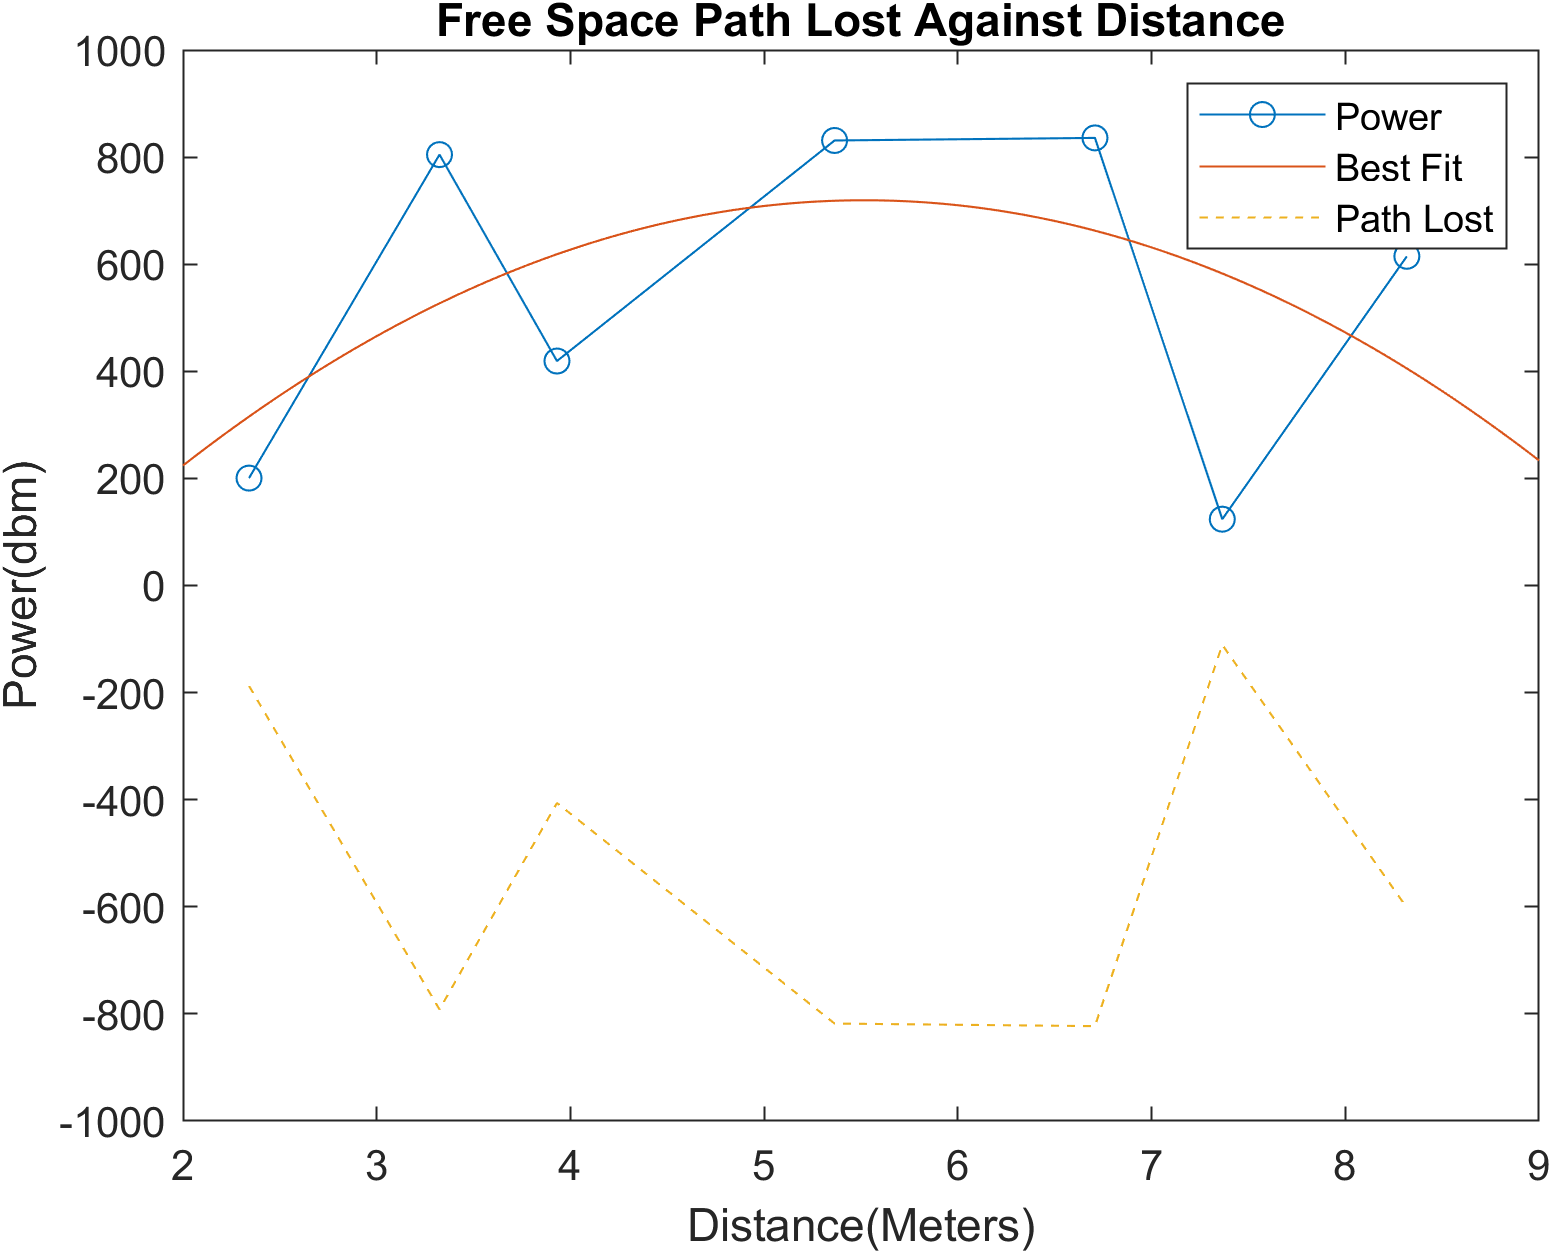
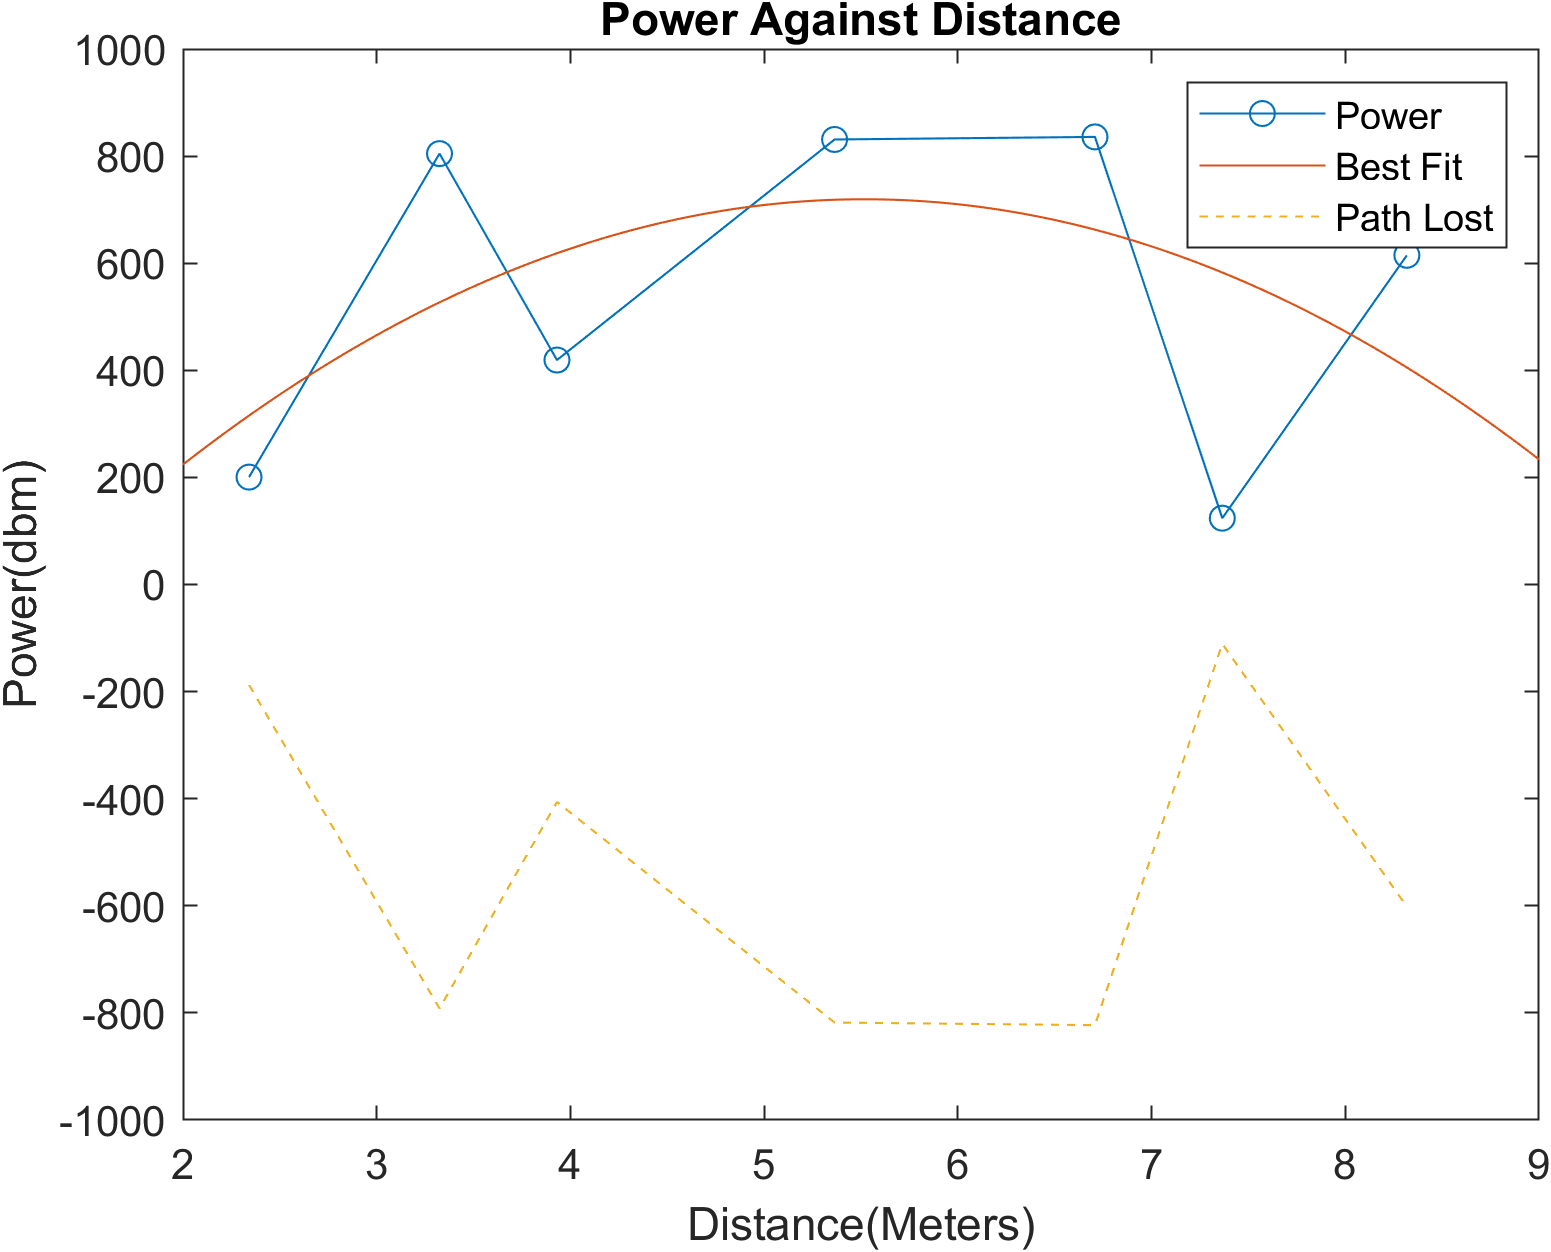
Graph correction

diff --git a/data_collection/Plot.m b/data_collection/Plot.m
@@ -54,7 +54,7 @@ plot(xdata,Ldb,'--')
 
 legend('Power','Best Fit','Path Lost')
 xlabel('Distance(Meters)'), ylabel('Power(dbm)')
-title('Path Lost Against Distance')
+title('Power Against Distance')
 
 out = gca;
 exportgraphics(out,'result/graph/distance_power.png','Resolution',300)
@@ -93,7 +93,7 @@ C = categorical(x_path)
 
 plot(C,path)
 xlabel('Stage of the Transmission'), ylabel('Power(dbm)')
-title('Power Change Along the Radio Path Per Distance Unit')
+title('Power Development Along the Radio Path Per Distance Unit')
 out = gca;
 exportgraphics(out,'result/graph/power_path.png','Resolution',500)
 
